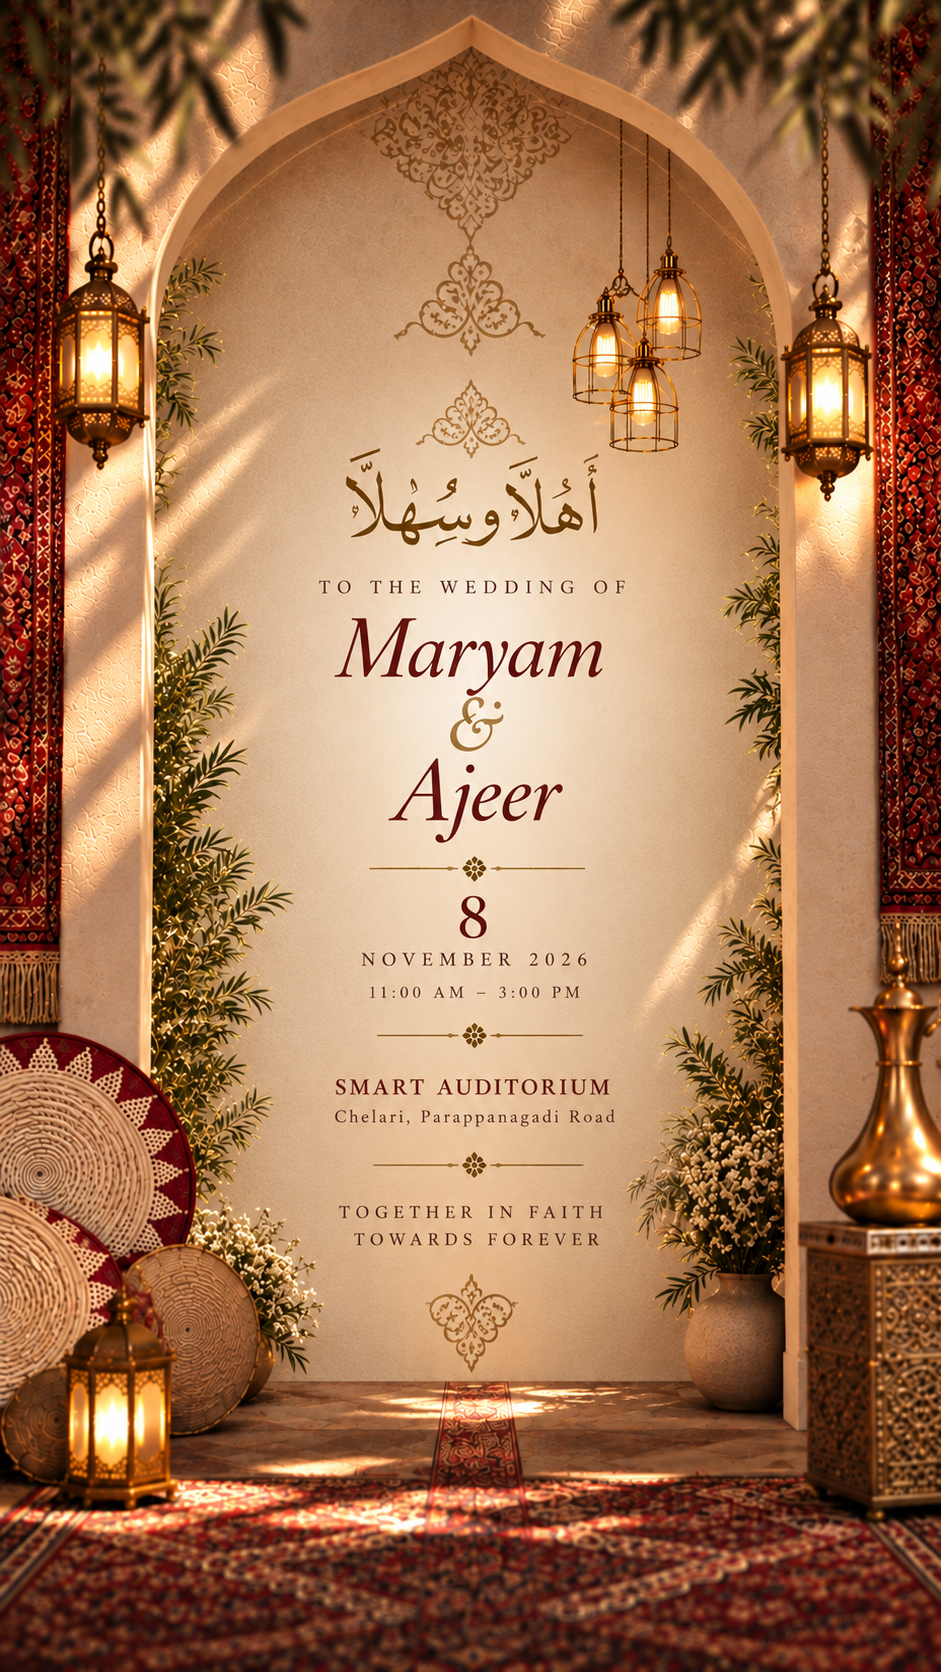
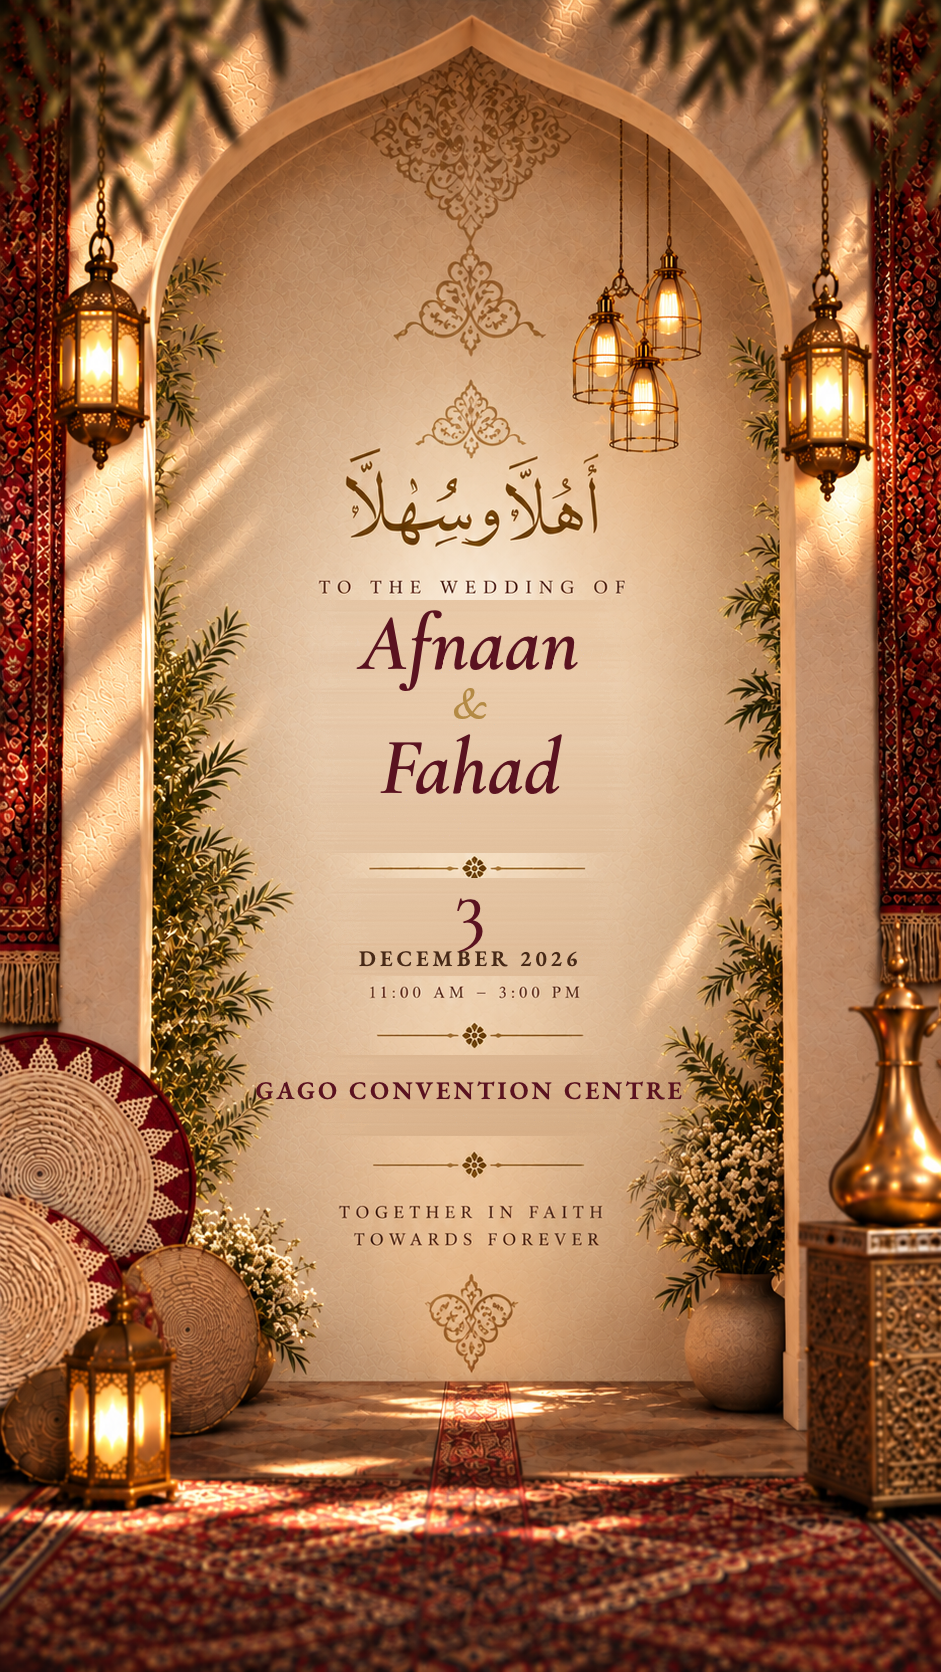
Update first page: Afnaan & Fahad, 3 December 2026, GAGO Convention Centre

Changed region(s): [[0.3698, 0.3421, 0.6472, 0.5909], [0.339, 0.622, 0.6472, 0.6842]]

diff --git a/index.html b/index.html
@@ -4,24 +4,24 @@
 <head>
 <meta charset="UTF-8">
 <meta name="viewport" content="width=device-width, initial-scale=1, viewport-fit=cover, maximum-scale=1">
-<title>Maryam &amp; Ajeer — Wedding Invitation</title>
+<title>Afnaan &amp; Fahad — Wedding Invitation</title>
 
 <!-- ===== SHARING METADATA =====
      After deploying, replace SITE_URL_HERE (4 places below) with your live domain,
      e.g. yourdomain.example.com  (no https://, no trailing slash). -->
 <link rel="canonical" href="https://maryam-ajeer.vercel.app/">
-<meta name="description" content="You are invited to celebrate the wedding of Maryam &amp; Ajeer · 8 November 2026 · 11:00 AM – 3:00 PM">
-<meta property="og:title" content="Maryam &amp; Ajeer">
-<meta property="og:description" content="You are invited to celebrate the wedding of Maryam &amp; Ajeer · 8 November 2026 · 11:00 AM – 3:00 PM">
+<meta name="description" content="You are invited to celebrate the wedding of Afnaan &amp; Fahad · 3 December 2026 · 11:00 AM – 3:00 PM">
+<meta property="og:title" content="Afnaan &amp; Fahad">
+<meta property="og:description" content="You are invited to celebrate the wedding of Afnaan &amp; Fahad · 3 December 2026 · 11:00 AM – 3:00 PM">
 <meta property="og:image" content="https://maryam-ajeer.vercel.app/assets/og-image.jpg">
 <meta property="og:image:width" content="1200">
 <meta property="og:image:height" content="630">
-<meta property="og:image:alt" content="Wedding invitation of Maryam &amp; Ajeer, 8 November 2026">
+<meta property="og:image:alt" content="Wedding invitation of Afnaan &amp; Fahad, 3 December 2026">
 <meta property="og:type" content="website">
 <meta property="og:url" content="https://maryam-ajeer.vercel.app/">
 <meta name="twitter:card" content="summary_large_image">
-<meta name="twitter:title" content="Maryam &amp; Ajeer">
-<meta name="twitter:description" content="You are invited to celebrate the wedding of Maryam &amp; Ajeer · 8 November 2026 · 11:00 AM – 3:00 PM">
+<meta name="twitter:title" content="Afnaan &amp; Fahad">
+<meta name="twitter:description" content="You are invited to celebrate the wedding of Afnaan &amp; Fahad · 3 December 2026 · 11:00 AM – 3:00 PM">
 <meta name="twitter:image" content="https://maryam-ajeer.vercel.app/assets/og-image.jpg">
 <meta name="theme-color" content="#3d0c15">
 
@@ -559,9 +559,9 @@
     <div class="veil"></div>
     <div class="ar-welcome">السلام عليكم ورحمة الله وبركاته</div>
     <div class="ar-names"><br><br><br>
-      <p class="ar-name">مريم</p>
+      <p class="ar-name">أفنان</p>
       <div class="ar-divider"><i></i></div>
-      <p class="ar-name">أجير</p>
+      <p class="ar-name">فهد</p>
     </div>
     <div class="open-cta-wrap">
       <button class="open-cta" id="openBtn" type="button">Open Invitation</button>
@@ -578,7 +578,7 @@
 
     <!-- HERO -->
     <section id="hero" class="page">
-      <img class="hero-img" src="assets/hero.png" alt="Wedding invitation of Maryam and Ajeer, 8 November 2026 — Smart Auditorium, Chelari">
+      <img class="hero-img" src="assets/hero.png" alt="Wedding invitation of Afnaan and Fahad, 3 December 2026 — GAGO Convention Centre">
       <div class="hero-butterfly hero-butterfly-1"><img src="assets/butterfly.png" alt=""></div>
       <div class="hero-butterfly hero-butterfly-2"><img src="assets/butterfly.png" alt=""></div>
       <div class="scroll-cue">
